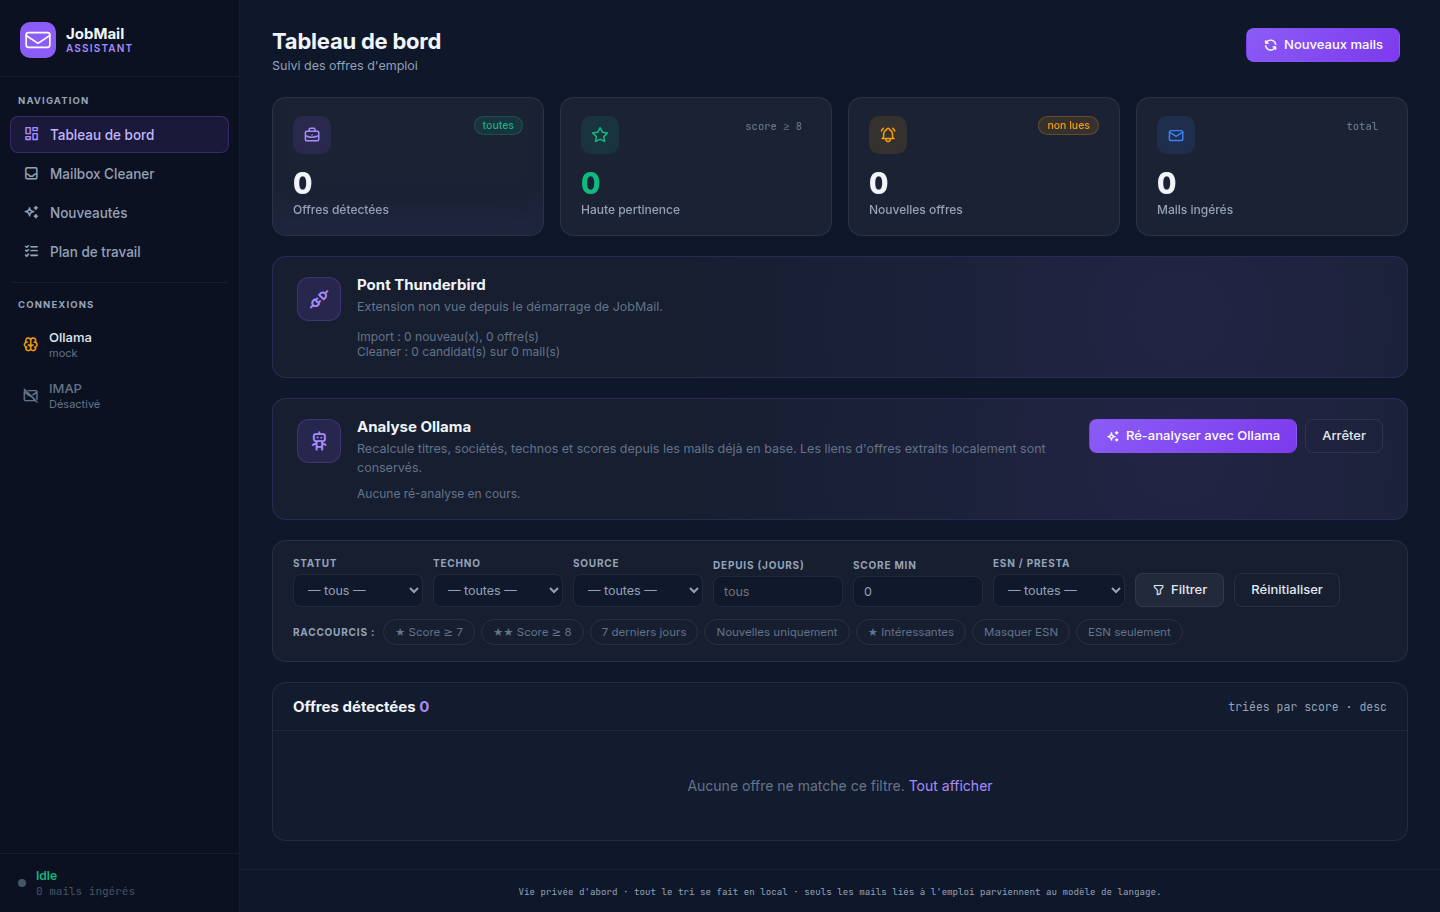
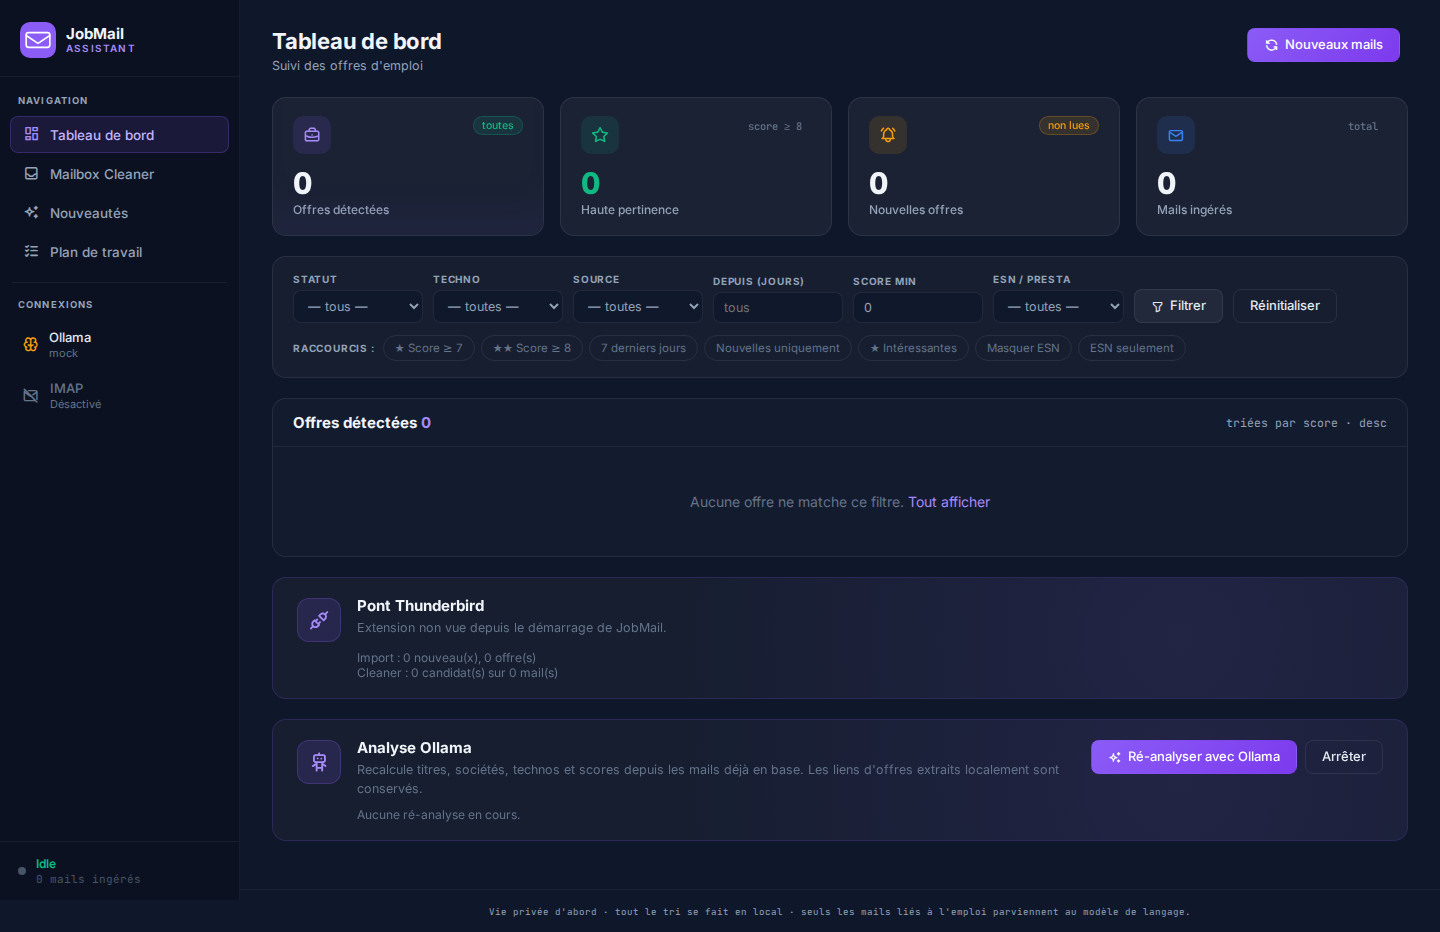
fix(L16): la liste des offres passe en premier sur tous les écrans, bureau compris
Plus d'order au bureau : ordre visuel = ordre du DOM ; 20 px entre la liste et le premier panneau à toute largeur.

diff --git a/jobmail/web/static/style.css b/jobmail/web/static/style.css
@@ -1759,17 +1759,10 @@ dl.grid dd { margin: 0; font-size: 13px; color: var(--fg-2); line-height: 1.5; }
 .news-copy-labels { display: inline-grid; }
 .news-copy-label { grid-area: 1 / 1; white-space: nowrap; }
 .news-copy-label.is-hidden { visibility: hidden; }
-/* Tableau de bord (L16) : le document suit l'ordre du téléphone (liste des offres, puis panneaux
-   Pont Thunderbird et Analyse Ollama), donc lecture et tabulation y sont dans le bon ordre.
-   Au bureau, `order` remonte les panneaux au-dessus des filtres (rendu historique). */
-@media (min-width: 769px) {
-  .dashboard-stack { display: flex; flex-direction: column; }
-  .dashboard-stack > .reanalysis-panel { order: 1; }
-  .dashboard-stack > .filters, .dashboard-stack > .offers-wrap { order: 2; }
-}
-@media (max-width: 768px) {
-  .offers-wrap { margin-bottom: 20px; }
-}
+/* Tableau de bord (L16) : un seul ordre partout, bureau compris : le document suit l'écran (liste des
+   offres, puis panneaux Pont Thunderbird et Analyse Ollama), sans `order`. 20 px séparent la liste
+   du premier panneau à toutes les largeurs. */
+.dashboard-stack > .offers-wrap { margin-bottom: 20px; }
 
 @media (pointer: coarse) {
   .news-copy { min-height: 44px; min-width: 44px; }

diff --git a/tests/test_dashboard_phone_order.py b/tests/test_dashboard_phone_order.py
@@ -1,18 +1,12 @@
-"""L16 — tableau de bord : le document suit l'ordre du téléphone (liste des offres avant les
-panneaux Pont Thunderbird et Analyse Ollama : WCAG 1.3.2 / 2.4.3) ; au bureau (≥ 769 px) le CSS
-remonte les panneaux au-dessus des filtres. Les mesures en navigateur (390 et 1440 px) sont dans
-le rapport de lot ; ici, la structure et les règles qui les produisent."""
+"""L16 — tableau de bord : un seul ordre à toutes les largeurs, bureau compris. La liste des offres
+précède les panneaux Pont Thunderbird et Analyse Ollama dans le document (WCAG 1.3.2 / 2.4.3) ET à
+l'écran : aucun `order` ne réordonne les enfants de .dashboard-stack. Les mesures en navigateur
+(390 et 1440 px) sont dans le rapport de lot ; ici, la structure et les règles."""
 from __future__ import annotations
 
 import re
 
 from tests.test_dashboard_web import CSS, _client
-
-
-def _block(media: str) -> str:
-    m = re.search(r"@media \(" + re.escape(media) + r"\) \{(.*?)\n\}\n", CSS, re.S)
-    assert m, f"bloc @media ({media}) absent"
-    return m.group(1)
 
 
 def _stack(html: str) -> str:
@@ -30,16 +24,16 @@ def test_le_document_met_la_liste_des_offres_avant_les_panneaux(tmp_path):
     assert positions == sorted(positions), positions
 
 
-def test_a_390_px_un_ecart_de_20_px_separe_la_liste_du_premier_panneau():
-    css = _block("max-width: 768px")
-    assert re.search(r"\.offers-wrap\s*\{[^}]*margin-bottom:\s*20px", css)
-    # le téléphone ne réordonne rien : plus de `order` dans ce bloc
-    assert "order:" not in css
+def test_un_ecart_de_20_px_separe_la_liste_du_premier_panneau_a_toute_largeur():
+    # règle hors de tout @media : valable à 390 comme à 1440 px
+    hors_media = re.sub(r"@media[^{]*\{(?:[^{}]*\{[^{}]*\})*[^{}]*\}", "", CSS)
+    assert re.search(r"\.dashboard-stack\s*>\s*\.offers-wrap\s*\{[^}]*margin-bottom:\s*20px", hors_media)
 
 
-def test_a_1440_px_les_panneaux_restent_au_dessus_des_filtres_et_de_la_liste():
-    css = _block("min-width: 769px")
-    assert re.search(r"\.dashboard-stack\s*\{[^}]*display:\s*flex[^}]*flex-direction:\s*column", css)
-    p = re.search(r"\.dashboard-stack\s*>\s*\.reanalysis-panel\s*\{[^}]*order:\s*(\d+)", css)
-    f = re.search(r"\.dashboard-stack\s*>\s*\.filters,\s*\.dashboard-stack\s*>\s*\.offers-wrap\s*\{[^}]*order:\s*(\d+)", css)
-    assert p and f and 0 < int(p.group(1)) < int(f.group(1))
+def test_aucun_order_sur_les_enfants_de_dashboard_stack_a_aucune_largeur():
+    for m in re.finditer(r"([^{}]*\.dashboard-stack[^{}]*)\{([^}]*)\}", CSS):
+        assert "order" not in re.findall(r"([\w-]+)\s*:", m.group(2)), m.group(0)
+    # et aucune règle `order` sur les trois blocs de la pile, où qu'elle soit
+    for sel in ("filters", "offers-wrap", "reanalysis-panel"):
+        for m in re.finditer(r"\." + sel + r"\s*\{([^}]*)\}", CSS):
+            assert not re.search(r"(?<![\w-])order\s*:", m.group(1)), (sel, m.group(0))

diff --git a/docs/nouveautes/2026-11-01-tableau-de-bord-au-telephone-768-px-la-liste-des-offres-titr.md b/docs/nouveautes/2026-11-01-tableau-de-bord-au-telephone-768-px-la-liste-des-offres-titr.md
@@ -1,14 +1,14 @@
 ---
-title: Au téléphone, la liste des offres passe en premier
+title: La liste des offres passe en premier sur le tableau de bord
 date: 2026-11-01
 created: 2026-11-01T12:20+01:00
 lots: [L16]
 captures:
   - { file: captures/L16-tableau-de-bord-telephone.png, alt: "Tableau de bord au téléphone : compteurs, filtres et liste des offres, puis les panneaux Pont Thunderbird et Analyse Ollama en bas de page" }
-  - { file: captures/L16-tableau-de-bord-bureau.png, alt: "Tableau de bord sur ordinateur : les panneaux Pont Thunderbird et Analyse Ollama restent au-dessus des filtres et de la liste" }
+  - { file: captures/L16-tableau-de-bord-bureau.png, alt: "Tableau de bord sur ordinateur : compteurs, filtres et liste des offres, puis les panneaux Pont Thunderbird et Analyse Ollama sous la liste" }
 ---
-Sur un écran de téléphone, le tableau de bord montre maintenant tes offres avant le reste.
+Sur tous les écrans, téléphone comme ordinateur, le tableau de bord montre maintenant tes offres avant le reste.
 
 - Sous les compteurs viennent d'abord les filtres et la liste des offres.
 - Les panneaux « Pont Thunderbird » et « Analyse Ollama » passent en bas de page, après la liste.
-- Sur ordinateur, rien ne change : les deux panneaux restent au-dessus des filtres.
+- Un espace sépare la liste du premier panneau, sur tous les écrans.
